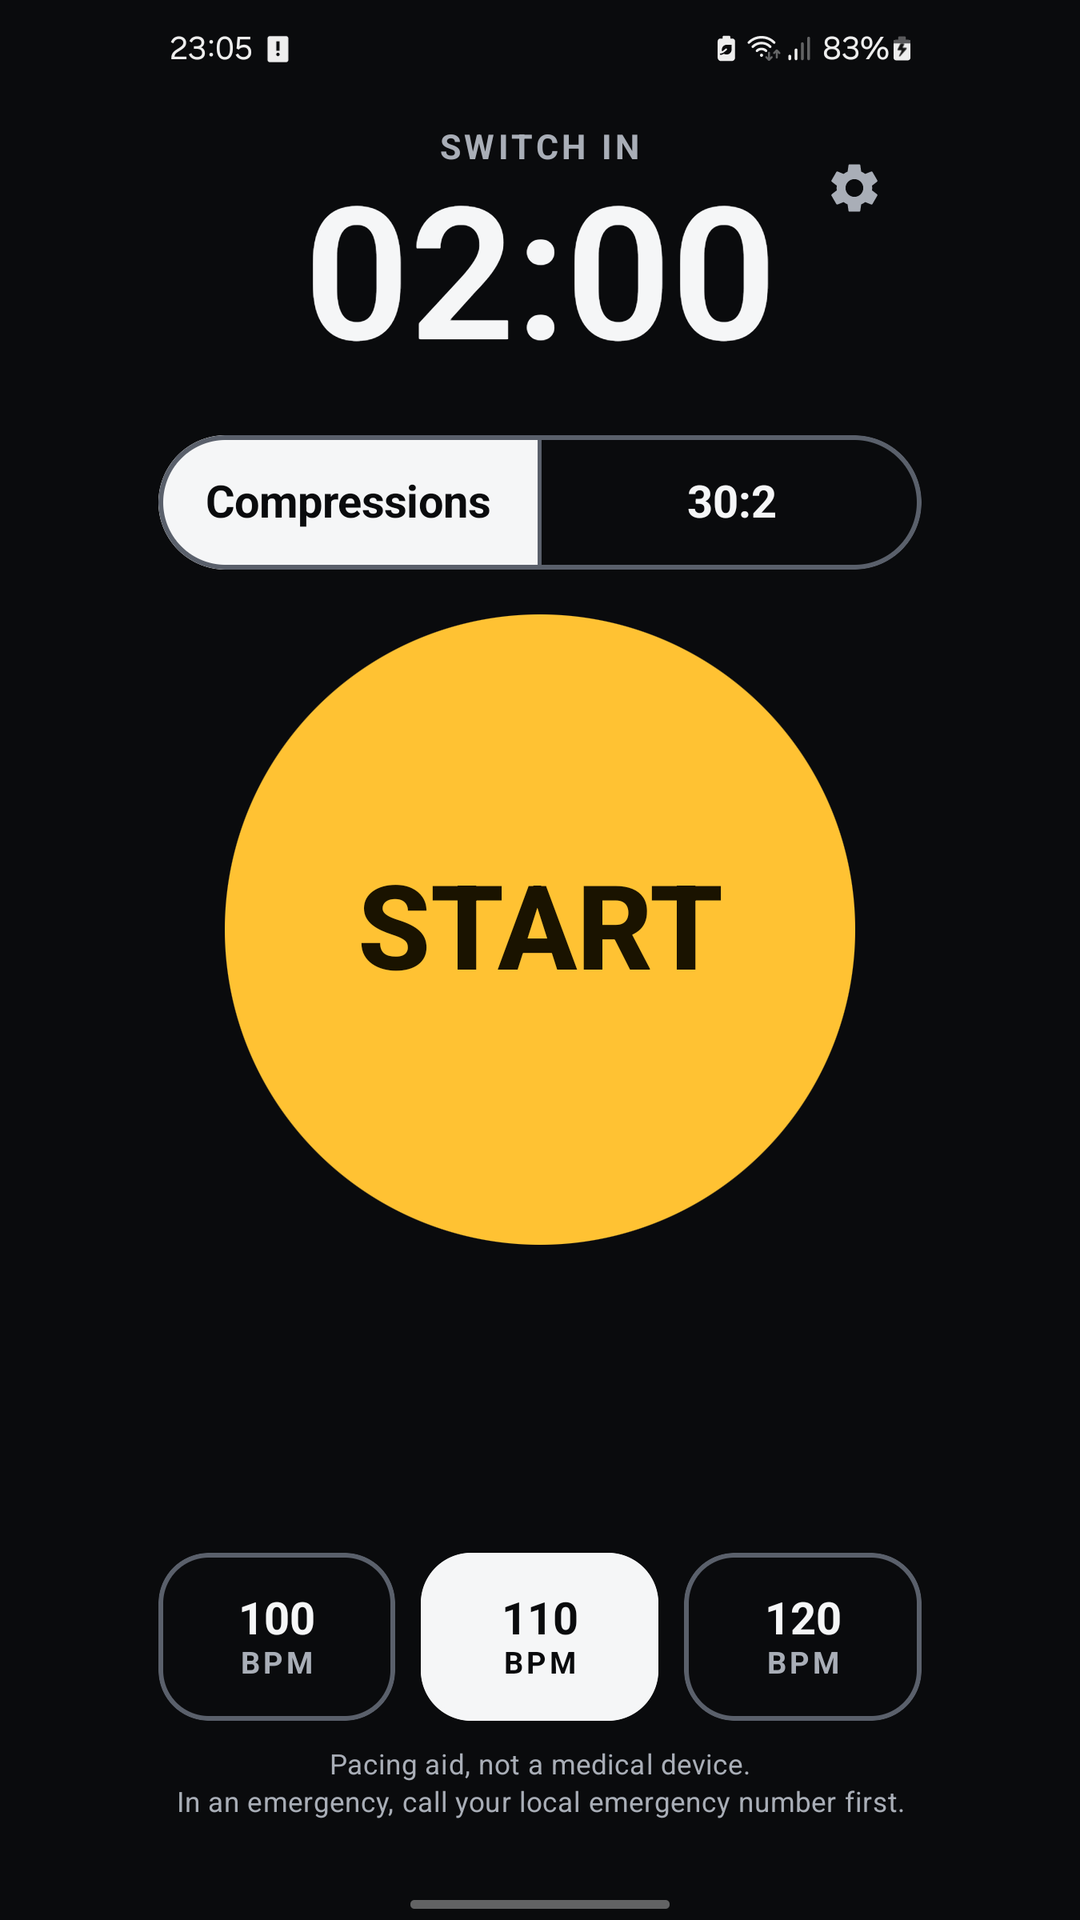
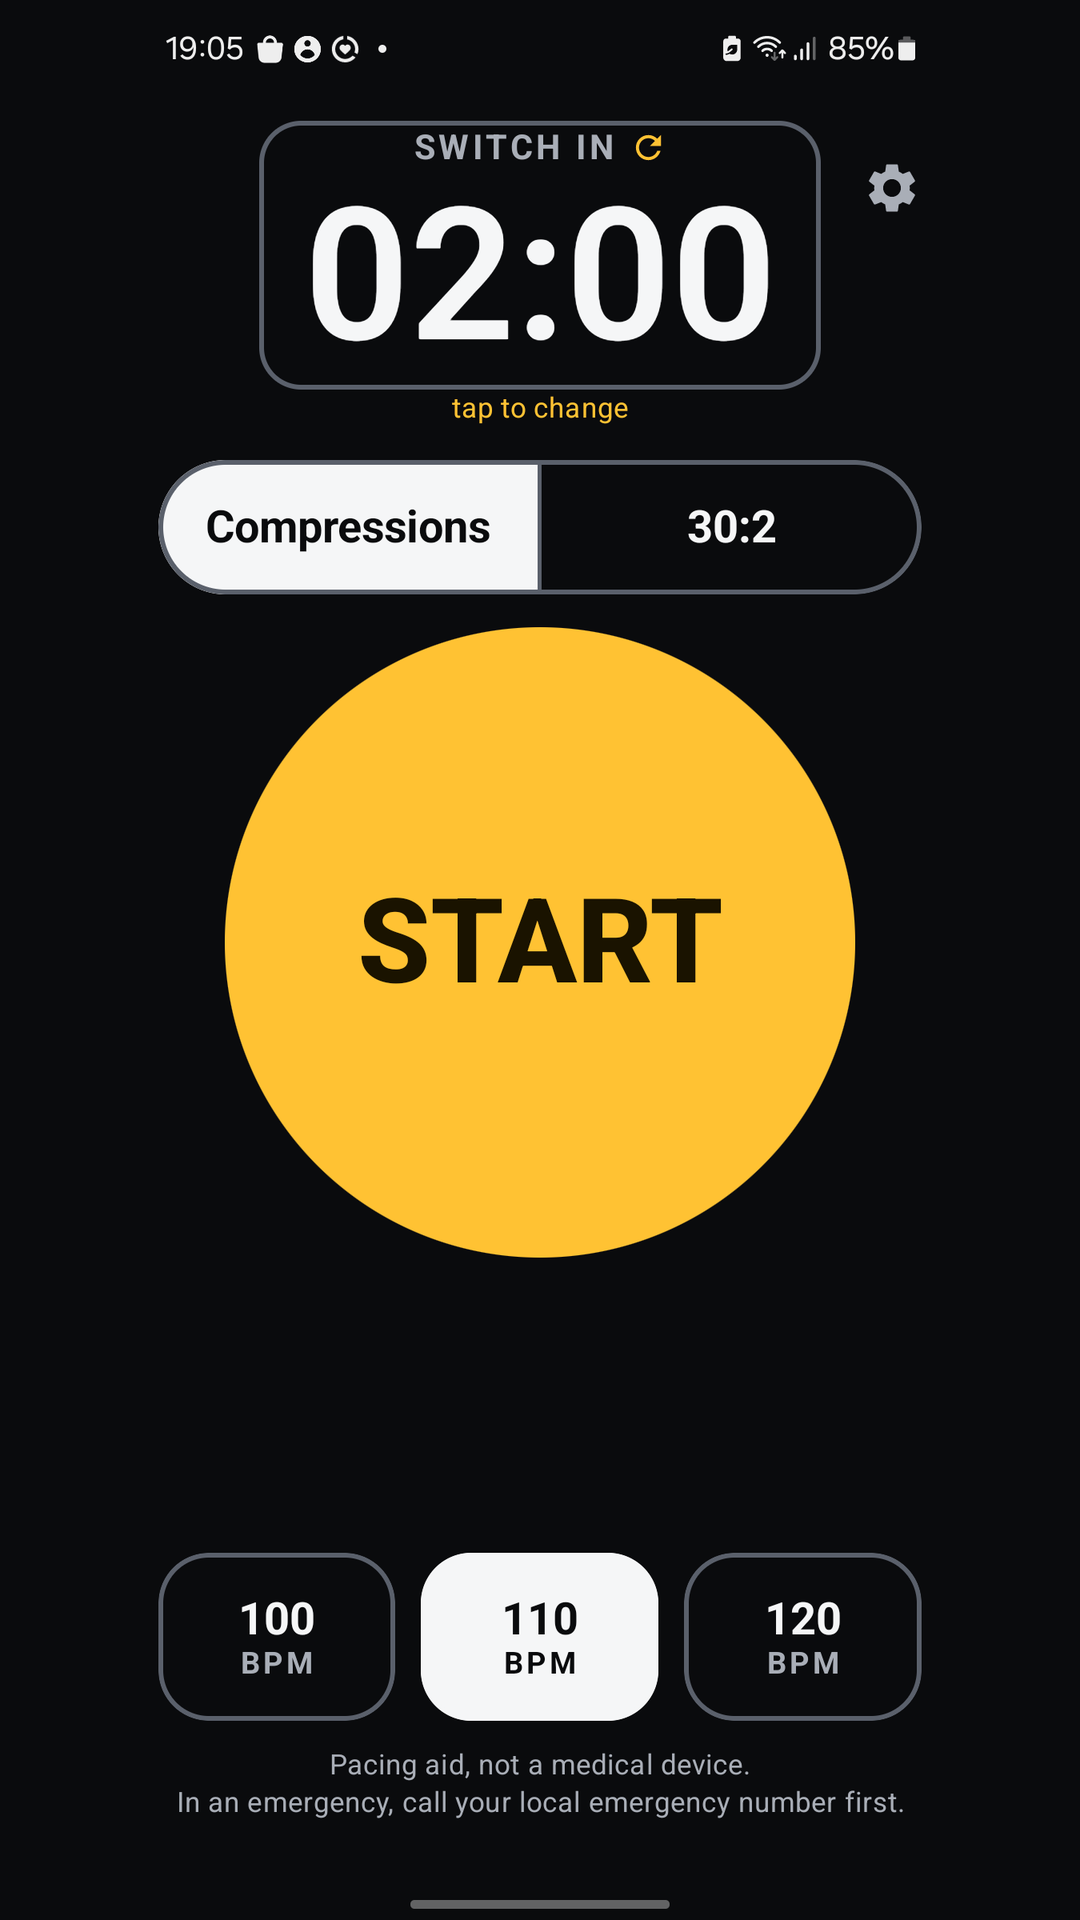
Release 0.4.0: later breath cue in 30:2, countdown looks like a button
Two changes from first-aid instructor feedback and the owner's review:
the 30:2 breath cue leaves time to reach the head (#18, 7 s default pause,
3-9 s) and the rescuer-switch countdown reads as a button (#15).

versionCode 5, versionName 0.4.0. Release notes list the changes since
0.3.0 (owner: each minor version describes what changed since the previous
minor), so RuStore users, still on 0.3.0, also learn about the 0.3.1 STOP
fix. Full descriptions mention the later breath cue and the tap on the
countdown. New screenshots from the Galaxy A52 in both languages with 9:16
copies; listings regenerated; README and STORE_GUIDE updated.

Claude-Session: https://claude.ai/code/session_01F1jzTWvesmMj4ngnjSYehf

diff --git a/store/listings/build.py b/store/listings/build.py
@@ -18,7 +18,7 @@ from pathlib import Path
 ROOT = Path(__file__).resolve().parents[2]
 META = ROOT / "fastlane" / "metadata" / "android"
 OUT = Path(__file__).resolve().parent
-VERSION_CODE = 4  # release notes file: changelogs/<versionCode>.txt
+VERSION_CODE = 5  # release notes file: changelogs/<versionCode>.txt
 
 
 def read(locale: str, name: str) -> str:

diff --git a/store/STORE_GUIDE.md b/store/STORE_GUIDE.md
@@ -14,10 +14,10 @@ organization (sections at the end). Per-store research: SPEC.md section 11.6.
 |---|---|
 | Release build | `./gradlew bundleRelease assembleRelease` with `keystore.properties` present. AAB in `app/build/outputs/bundle/release/`, APK in `app/build/outputs/apk/release/`. Also attached to the GitHub release. |
 | Signing key | `~/.cprbeat/release.jks`, alias `cprbeat`, PKCS12. Password in the password manager. **Back it up off the laptop.** Certificate SHA-256 `12:9F:19:E1:CA:54:F1:79:FA:58:E0:F0:60:1F:6B:8B:F3:AA:9F:A4:35:C5:7D:3F:77:F1:E0:F0:64:BF:C5:23`. |
-| App id / version | `dev.alcini.cprbeat`, versionCode 4, versionName 0.3.1. Bump both in `app/build.gradle.kts` for every store upload; stores reject a reused versionCode. |
+| App id / version | `dev.alcini.cprbeat`, versionCode 5, versionName 0.4.0. Bump both in `app/build.gradle.kts` for every store upload; stores reject a reused versionCode. |
 | Icon 512×512 | `store/icon-512.png` |
 | Feature graphic 1024×500 | `store/feature-graphic-1024x500.png` (Play only, others optional) |
-| Screenshots | `fastlane/metadata/android/en-US/images/phoneScreenshots/` (English UI) and `ru-RU/…` (Russian UI), both from the Samsung A52 at 0.3.0, 1080×2400 (9:20; F-Droid, IzzyOnDroid). 9:16 copies for RuStore and AppGallery in `store/screenshots/9x16/`, made by `python3 store/screenshots/pad_9x16.py` (scaled, side margins in the app background colour, nothing cropped). Hide the Samsung Edge panel handle before taking new shots. |
+| Screenshots | `fastlane/metadata/android/en-US/images/phoneScreenshots/` (English UI) and `ru-RU/…` (Russian UI), both from the Samsung A52 at 0.4.0, 1080×2400 (9:20; F-Droid, IzzyOnDroid). 9:16 copies for RuStore and AppGallery in `store/screenshots/9x16/`, made by `python3 store/screenshots/pad_9x16.py` (scaled, side margins in the app background colour, nothing cropped). Hide the Samsung Edge panel handle before taking new shots. |
 | Texts EN | `fastlane/metadata/android/en-US/{title,short_description,full_description}.txt` (source of truth) |
 | Texts RU | `fastlane/metadata/android/ru-RU/…` |
 | Paste-ready listings per store | `store/listings/*.md`, regenerated by `python3 store/listings/build.py`; limits, languages and console settings per store in `store/listings/README.md` |

diff --git a/CHANGELOG.md b/CHANGELOG.md
@@ -8,12 +8,13 @@ matching entry at release time.
 
 ## [Unreleased]
 
+## [0.4.0] - 2026-10-18
+
 ### Changed
 
 - The rescuer-switch countdown now looks like a button: it has an outline and a ⟳ icon, and
   "tap to change" is shown under it while the metronome is stopped. Tapping it still cycles the
   interval Off, 1, 2, 3, 5 minutes.
-
 - 30:2: the first breath tone now sounds at 30 % of the breath pause and the second at 65 %,
   instead of right after compression 30 and at half the pause, so a lone rescuer has time to
   move to the head and open the airway. The breath pause is 7 s by default and adjustable
@@ -91,7 +92,8 @@ matching entry at release time.
   per-session overrides.
 - First-launch hints, dark theme, English only, fully offline with no permissions.
 
-[Unreleased]: https://github.com/alessioalcini/cpr-beat/compare/v0.3.1...HEAD
+[Unreleased]: https://github.com/alessioalcini/cpr-beat/compare/v0.4.0...HEAD
+[0.4.0]: https://github.com/alessioalcini/cpr-beat/compare/v0.3.1...v0.4.0
 [0.3.1]: https://github.com/alessioalcini/cpr-beat/compare/v0.3.0...v0.3.1
 [0.3.0]: https://github.com/alessioalcini/cpr-beat/compare/v0.2.0...v0.3.0
 [0.2.0]: https://github.com/alessioalcini/cpr-beat/compare/9579741...v0.2.0

diff --git a/README.md b/README.md
@@ -24,10 +24,9 @@ American Heart Association or the European Resuscitation Council.
 
 ## Status
 
-Version 0.3.1 (Russian interface since 0.3.0) is available on
-[F-Droid](https://f-droid.org/packages/dev.alcini.cprbeat/) and
-[GitHub Releases](https://github.com/alessioalcini/cpr-beat/releases).
-[RuStore](https://www.rustore.ru/catalog/app/dev.alcini.cprbeat) has 0.3.0, with 0.3.1 to follow.
+Version 0.4.0 is on [GitHub Releases](https://github.com/alessioalcini/cpr-beat/releases);
+[F-Droid](https://f-droid.org/packages/dev.alcini.cprbeat/) (0.3.1) and
+[RuStore](https://www.rustore.ru/catalog/app/dev.alcini.cprbeat) (0.3.0) update after their review.
 Huawei AppGallery is paused; IzzyOnDroid is next.
 Google Play accepts first-aid apps only from organization accounts, so we are looking for a
 partner organization to publish it there.
